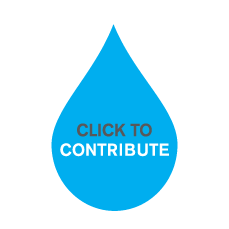
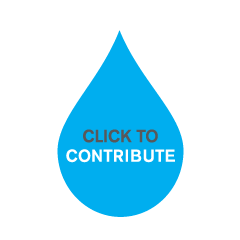
added new drop images/counter

Changed region(s): [[0.214, 0.0917, 0.7948, 0.9476], [0.5808, 0.2751, 0.6419, 0.3668]]

diff --git a/app/css/theme.less b/app/css/theme.less
@@ -275,11 +275,11 @@ section#home {
 
 #drop1 {
 	position: absolute;
-	top: 55px;
-	left: 5px;
+	top: 40px;
+	left: 33px;
 	display:block;
-	width: 300px;
-	height: 300px;
+	width: 240px;
+	height: 240px;
 	background:transparent url(/images/drop1.png) center top no-repeat;
 }
 
